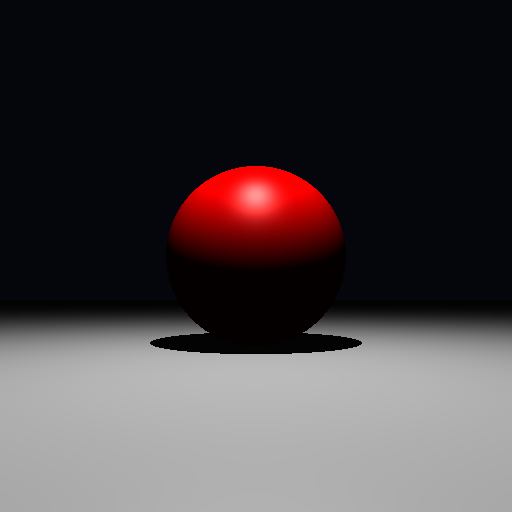
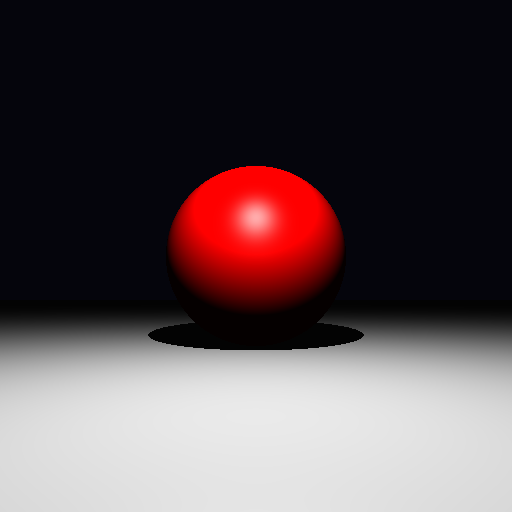
adicionando mais um passo antes do 2

diff --git a/src/services/pipeline.py b/src/services/pipeline.py
@@ -17,6 +17,7 @@ from src.utils.image_io import save_film_as_png
 # Default step descriptions for logging
 STEP_DESCRIPTIONS: dict[float, str] = {
     1: "Point light, flat red sphere, no shadows",
+    1.5: "Point light, flat color with shadows (no Phong)",
     2: "Shadows + Phong illumination model",
     3: "Antialiasing with single point light",
     3.1: "Antialiasing with two point lights (left + right)",
@@ -28,12 +29,19 @@ STEP_DESCRIPTIONS: dict[float, str] = {
 # Output filename mapping (descriptive names)
 STEP_FILENAMES: dict[float, str] = {
     1: "step1_flat_color_no_shadows",
+    1.5: "step1_5_flat_color_with_shadows",
     2: "step2_shadows_phong_illumination",
     3: "step3_antialiasing_single_light",
     3.1: "step3_antialiasing_dual_lights",
     4: "step4_sphere_area_light_uniform_16_samples",
     5: "step5_ellipsoid_area_light_uniform_24_samples",
     6: "step6_sphere_area_light_uniform_24_samples",
+}
+
+# Scene key mapping: maps float step number to int key used in scenes dictionary
+SCENE_KEY_MAP: dict[float, int] = {
+    1.5: 15,
+    3.1: 31,
 }
 
 
@@ -76,7 +84,7 @@ class Pipeline:
             return 24  # Area light (rectangular) with uniform sampling
         if step == 4:
             return 16  # Area light (rectangular) with uniform sampling
-        if step == 3.1:
+        if step in (1.5, 3.1):
             return 1  # Point lights don't need multiple samples
         return 1
 
@@ -154,21 +162,36 @@ class Pipeline:
         if scenes is None:
             scenes = Scene.default_steps()
 
-        # Execute in order: 1, 2, 3, 3.1, 4, 5
+        # Execute in order: 1, 1.5, 2, 3, 3.1, 4, 5, 6
         step_order = sorted(scenes.keys())
         paths = []
+        
+        # Render step 1 first
+        if 1 in scenes:
+            path = self.render_step(1, scenes[1], rays_per_pixel, light_samples)
+            paths.append(path)
+        
+        # Render step 1.5
+        if 15 in scenes:
+            path_15 = self._render_custom_step(1.5, scenes[15], rays_per_pixel, light_samples)
+            paths.append(path_15)
+        
+        # Render steps 2, 3, 3.1, 4, 5, 6
         for step in step_order:
-            scene = scenes[step]
+            if step in (1, 1.5, 15, 31):
+                continue  # Already rendered or will be handled
             
+            scene = scenes[step]
+
             # Special handling for step 3: render both single and dual light variants
             if step == 3:
                 # Render single light variant
                 path = self.render_step(step, scene, rays_per_pixel, light_samples)
                 paths.append(path)
-                
+
                 # Render dual light variant as step 3.1
-                if 3.1 in scenes:
-                    scene_31 = scenes[3.1]
+                if 31 in scenes:
+                    scene_31 = scenes[31]
                     path_31 = self._render_custom_step(3.1, scene_31, rays_per_pixel, light_samples)
                     paths.append(path_31)
             else:
@@ -214,10 +237,14 @@ class Pipeline:
         start = time.perf_counter()
 
         film = Film(width=512, height=512)
+        
+        # Map step 1.5 and 3.1 to their integer scene keys for the renderer
+        renderer_step = SCENE_KEY_MAP.get(step, int(step))
+        
         renderer = Renderer(
             scene=scene,
             film=film,
-            step=int(step),
+            step=renderer_step,
             rays_per_pixel=rpp,
             light_samples=ls,
             seed=self.seed,

diff --git a/src/models/scene.py b/src/models/scene.py
@@ -145,9 +145,9 @@ class Scene:
 
         scenes: dict[int, Scene] = {}
 
-        # Ambient per step: step 1 = 0.1, steps 2-5 = 0.2
+        # Ambient per step: step 1 = 0.1, steps 1.5-6 = 0.2
         ambient_1 = glm.vec3(0.1, 0.1, 0.1)
-        ambient_2to5 = glm.vec3(0.2, 0.2, 0.2)
+        ambient_15to6 = glm.vec3(0.2, 0.2, 0.2)
 
         # Step 1: point light, flat red, no shadows
         scenes[1] = cls(
@@ -157,12 +157,20 @@ class Scene:
             ambient_light=ambient_1,
         )
 
+        # Step 1.5: point light, flat color with shadows (no Phong)
+        scenes[15] = cls(
+            objects=[sphere, plane],
+            lights=[point_light_bright],
+            camera=camera,
+            ambient_light=ambient_15to6,
+        )
+
         # Step 2: point light (bright), Phong, shadows
         scenes[2] = cls(
             objects=[sphere, plane],
             lights=[point_light_bright],
             camera=camera,
-            ambient_light=ambient_2to5,
+            ambient_light=ambient_15to6,
         )
 
         # Step 3: point light (bright), Phong, shadows, antialiasing
@@ -171,15 +179,15 @@ class Scene:
             objects=[sphere, plane],
             lights=[point_light_bright],
             camera=camera,
-            ambient_light=ambient_2to5,
+            ambient_light=ambient_15to6,
         )
-        
+
         # Step 3 dual light variant (rendered separately)
         scenes[31] = cls(
             objects=[sphere, plane],
             lights=[point_light_left, point_light_right],
             camera=camera,
-            ambient_light=ambient_2to5,
+            ambient_light=ambient_15to6,
         )
 
         # Step 4: area light (rectangular) with uniform sampling (16 samples), sphere
@@ -188,7 +196,7 @@ class Scene:
             objects=[sphere, plane],
             lights=[area_light_step6],
             camera=camera,
-            ambient_light=ambient_2to5,
+            ambient_light=ambient_15to6,
         )
 
         # Step 5: area light (rectangular) with uniform sampling (24 samples), ellipsoid
@@ -202,7 +210,7 @@ class Scene:
             objects=[ellipsoid, plane],
             lights=[area_light_step6],
             camera=camera_step5,
-            ambient_light=ambient_2to5,
+            ambient_light=ambient_15to6,
         )
 
         # Step 6: area light (rectangular) with uniform sampling (16 samples), sphere
@@ -211,7 +219,7 @@ class Scene:
             objects=[sphere, plane],
             lights=[area_light_step6],
             camera=camera,
-            ambient_light=ambient_2to5,
+            ambient_light=ambient_15to6,
         )
 
         return scenes

diff --git a/src/cli/main.py b/src/cli/main.py
@@ -25,7 +25,7 @@ def main(argv: list[str] | None = None) -> int:
         "--step",
         type=float,
         default=None,
-        help="Rendering step (1-6 or 3.1). Default: run all steps.",
+        help="Rendering step (1-6, 1.5, or 3.1). Default: run all steps.",
     )
     parser.add_argument(
         "--rays-per-pixel",
@@ -54,11 +54,11 @@ def main(argv: list[str] | None = None) -> int:
 
     args = parser.parse_args(argv)
 
-    VALID_STEPS = {1, 2, 3, 3.1, 4, 5, 6}
+    VALID_STEPS = {1, 1.5, 2, 3, 3.1, 4, 5, 6}
 
     # Validate arguments
     if args.step is not None and args.step not in VALID_STEPS:
-        print("Error: --step must be 1, 2, 3, 3.1, 4, 5, or 6", file=sys.stderr)
+        print("Error: --step must be 1, 1.5, 2, 3, 3.1, 4, 5, or 6", file=sys.stderr)
         return 1
 
     if args.rays_per_pixel is not None and args.rays_per_pixel < 1:
@@ -75,9 +75,15 @@ def main(argv: list[str] | None = None) -> int:
         if args.step is not None:
             # Render a single step
             scenes = Scene.default_steps()
-            
-            # Handle step 3.1 (key is 31 in the dictionary)
-            scene_key = 31 if args.step == 3.1 else args.step
+
+            # Handle step 1.5 and 3.1 (keys are 15 and 31 in the dictionary)
+            if args.step == 1.5:
+                scene_key = 15
+            elif args.step == 3.1:
+                scene_key = 31
+            else:
+                scene_key = args.step
+
             pipeline.render_step(
                 step=args.step,
                 scene=scenes[scene_key],

diff --git a/src/services/shading.py b/src/services/shading.py
@@ -47,7 +47,7 @@ def compute_flat_color(
             if use_shadows:
                 # Simple shadow check — binary (in shadow or not)
                 shadow = _is_in_shadow_point(
-                    hit.point, light_dir_norm, light_dist, scene
+                    hit.point, hit.normal, light_dir_norm, light_dist, scene
                 )
                 if shadow:
                     continue
@@ -66,7 +66,7 @@ def compute_flat_color(
 
             if use_shadows:
                 shadow = _is_in_shadow_point(
-                    hit.point, light_dir_norm, light_dist, scene
+                    hit.point, hit.normal, light_dir_norm, light_dist, scene
                 )
                 if shadow:
                     continue

diff --git a/src/services/renderer.py b/src/services/renderer.py
@@ -85,6 +85,9 @@ class Renderer:
         if self.step == 1:
             # Step 1: flat color, no shadows
             return compute_flat_color(hit, self.scene, use_shadows=False)
+        elif self.step == 15:
+            # Step 1.5: flat color with shadows (no Phong)
+            return compute_flat_color(hit, self.scene, use_shadows=True)
         else:
             # Steps 2+: Phong model
             view_dir = glm.normalize(self.scene.camera.eye - hit.point)
